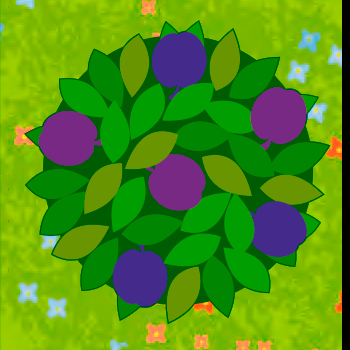
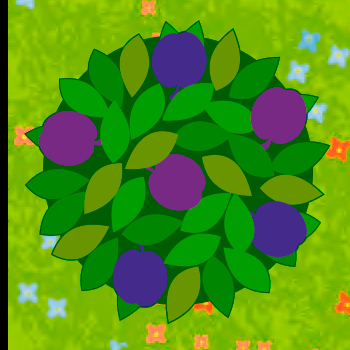
Imagenes con borde funcionales (sin rotar)

Changed region(s): [[0.9714, 0.0, 1.0, 1.0], [0.0, 0.0, 0.0286, 1.0]]

diff --git a/src/build/orchard.js b/src/build/orchard.js
@@ -26,6 +26,7 @@ var __assign = (this && this.__assign) || function () {
 };
 import { jsx as _jsx, jsxs as _jsxs } from "react/jsx-runtime";
 import React from 'react';
+//import { readJsonConfigFile } from 'typescript';
 import './index.css';
 var Rotation;
 (function (Rotation) {
@@ -40,143 +41,187 @@ var Color;
     Color[Color["Purple"] = 2] = "Purple";
     Color[Color["Yellow"] = 3] = "Yellow";
 })(Color || (Color = {}));
-var cards = {
+var allCards = {
     "elements": [
         {
             "id": 1,
             "img": "img/1.png",
-            "pos": null,
+            "pos": [777, 777, 777, 777, 777, 777],
             "rotation": 1,
-            "trees": [2, 1, 1, 2, 3, 3]
+            "trees": [2, 1, 1, 2, 3, 3],
+            "inUse": false
         },
         {
             "id": 2,
             "img": "img/2.png",
-            "pos": null,
+            "pos": [777, 777, 777, 777, 777, 777],
             "rotation": 1,
-            "trees": [1, 2, 1, 2, 3, 3]
+            "trees": [1, 2, 1, 2, 3, 3],
+            "inUse": false
         },
         {
             "id": 3,
             "img": "img/3.png",
-            "pos": null,
+            "pos": [777, 777, 777, 777, 777, 777],
             "rotation": 1,
-            "trees": [2, 1, 3, 3, 1, 2]
+            "trees": [2, 1, 3, 3, 1, 2],
+            "inUse": false
         },
         {
             "id": 4,
             "img": "img/4.png",
-            "pos": null,
+            "pos": [777, 777, 777, 777, 777, 777],
             "rotation": 1,
-            "trees": [1, 2, 3, 3, 1, 2]
+            "trees": [1, 2, 3, 3, 1, 2],
+            "inUse": false
         },
         {
             "id": 5,
             "img": "img/5.png",
-            "pos": null,
+            "pos": [777, 777, 777, 777, 777, 777],
             "rotation": 1,
-            "trees": [1, 3, 2, 2, 3, 1]
+            "trees": [1, 3, 2, 2, 3, 1],
+            "inUse": false
         },
         {
             "id": 6,
             "img": "img/6.png",
-            "pos": null,
+            "pos": [777, 777, 777, 777, 777, 777],
             "rotation": 1,
-            "trees": [3, 1, 2, 2, 3, 1]
+            "trees": [3, 1, 2, 2, 3, 1],
+            "inUse": false
         },
         {
             "id": 7,
             "img": "img/7.png",
-            "pos": null,
+            "pos": [777, 777, 777, 777, 777, 777],
             "rotation": 1,
-            "trees": [3, 1, 3, 2, 1, 2]
+            "trees": [3, 1, 3, 2, 1, 2],
+            "inUse": false
         },
         {
             "id": 8,
             "img": "img/8.png",
-            "pos": null,
+            "pos": [777, 777, 777, 777, 777, 777],
             "rotation": 1,
-            "trees": [3, 1, 2, 3, 1, 2]
+            "trees": [3, 1, 2, 3, 1, 2],
+            "inUse": false
         },
         {
             "id": 9,
             "img": "img/9.png",
-            "pos": null,
+            "pos": [777, 777, 777, 777, 777, 777],
             "rotation": 1,
-            "trees": [2, 3, 2, 1, 3, 1]
+            "trees": [2, 3, 2, 1, 3, 1],
+            "inUse": false
         },
         {
             "id": 10,
             "img": "img/10.png",
-            "pos": null,
+            "pos": [777, 777, 777, 777, 777, 777],
             "rotation": 1,
-            "trees": [2, 3, 1, 2, 3, 1]
+            "trees": [2, 3, 1, 2, 3, 1],
+            "inUse": false
         },
         {
             "id": 11,
             "img": "img/11.png",
-            "pos": null,
+            "pos": [777, 777, 777, 777, 777, 777],
             "rotation": 1,
-            "trees": [2, 2, 1, 3, 3, 1]
+            "trees": [2, 2, 1, 3, 3, 1],
+            "inUse": false
         },
         {
             "id": 12,
             "img": "img/12.png",
-            "pos": null,
+            "pos": [777, 777, 777, 777, 777, 777],
             "rotation": 1,
-            "trees": [2, 2, 1, 3, 1, 3]
+            "trees": [2, 2, 1, 3, 1, 3],
+            "inUse": false
         },
         {
             "id": 13,
             "img": "img/13.png",
-            "pos": null,
+            "pos": [777, 777, 777, 777, 777, 777],
             "rotation": 1,
-            "trees": [1, 2, 1, 3, 2, 3]
+            "trees": [1, 2, 1, 3, 2, 3],
+            "inUse": false
         },
         {
             "id": 14,
             "img": "img/14.png",
-            "pos": null,
+            "pos": [777, 777, 777, 777, 777, 777],
             "rotation": 1,
-            "trees": [1, 2, 3, 1, 2, 3]
+            "trees": [1, 2, 3, 1, 2, 3],
+            "inUse": false
         },
         {
             "id": 15,
             "img": "img/15.png",
-            "pos": null,
+            "pos": [777, 777, 777, 777, 777, 777],
             "rotation": 1,
-            "trees": [3, 2, 1, 1, 2, 3]
+            "trees": [3, 2, 1, 1, 2, 3],
+            "inUse": false
         },
         {
             "id": 16,
             "img": "img/16.png",
-            "pos": null,
+            "pos": [777, 777, 777, 777, 777, 777],
             "rotation": 1,
-            "trees": [2, 3, 1, 1, 2, 3]
+            "trees": [2, 3, 1, 1, 2, 3],
+            "inUse": false
         },
         {
             "id": 17,
             "img": "img/17.png",
-            "pos": null,
+            "pos": [777, 777, 777, 777, 777, 777],
             "rotation": 1,
-            "trees": [1, 1, 3, 2, 2, 3]
+            "trees": [1, 1, 3, 2, 2, 3],
+            "inUse": false
         },
         {
             "id": 18,
             "img": "img/18.png",
-            "pos": null,
+            "pos": [777, 777, 777, 777, 777, 777],
             "rotation": 1,
-            "trees": [1, 1, 3, 2, 3, 2]
+            "trees": [1, 1, 3, 2, 3, 2],
+            "inUse": false
         }
     ]
 };
+var lista = [1, 2, 3, 4, 5, 6, 7, 8, 9, 10, 11, 12, 13, 14, 15, 16, 17, 18];
+lista = lista.sort(function () { return Math.random() - 0.5; });
+var miarray = lista.slice(0, 9);
+var arrayrandon = new Array;
+var cards = allCards.elements.filter(function (z) { return miarray.includes(z.id); });
 var Square = /** @class */ (function (_super) {
     __extends(Square, _super);
     function Square() {
-        return _super !== null && _super.apply(this, arguments) || this;
+        var _this = _super !== null && _super.apply(this, arguments) || this;
+        _this.imag = "";
+        return _this;
     }
     Square.prototype.render = function () {
-        return (_jsx("button", { className: "square" }));
+        var _this = this;
+        cards.filter(function (x) { return x.pos.includes(_this.props.id); }).forEach(function (x) { return _this.props.cardsPos.push(x.pos.indexOf(_this.props.id)); });
+        cards.filter(function (x) { return x.pos.includes(_this.props.id); }).forEach(function (x) { return _this.props.cardsColor.push(x.trees[x.pos.indexOf(_this.props.id)]); });
+        if (this.props.cardsColor.includes(1)) {
+            this.imag = "https://i.imgur.com/mAt0iKU.png";
+        }
+        else {
+            if (this.props.cardsColor.includes(2)) {
+                this.imag = "https://i.imgur.com/XRzjdo1.png";
+            }
+            else {
+                if (this.props.cardsColor.includes(3)) {
+                    this.imag = "https://i.imgur.com/DG3Gczr.png";
+                }
+                else {
+                    this.imag = "https://th.bing.com/th/id/R.ff76d7863a19d037b34a03c4449178dd?rik=%2b8NPZfWI%2b5nSvw&riu=http%3a%2f%2fwww.imagemagick.org%2fUsage%2fcanvas%2ftrans_fx.png&ehk=IpCH9l8aG%2fvQURdHBHC68epCBqosqIVPywATeVcMTdE%3d&risl=&pid=ImgRaw&r=0";
+                }
+            }
+        }
+        return (_jsx("button", __assign({ className: "square" }, { children: _jsx("img", { src: this.imag, height: "67", width: "67", alt: '' }) })));
     };
     return Square;
 }(React.Component));
@@ -186,22 +231,36 @@ var Board = /** @class */ (function (_super) {
         return _super !== null && _super.apply(this, arguments) || this;
     }
     Board.prototype.renderSquare = function (i) {
-        return _jsx(Square, {});
+        return _jsx(Square, { id: i, cards: cards, cardsColor: new Array, cardsPos: new Array });
     };
     Board.prototype.render = function () {
         var status = 'Next player: X';
-        return (_jsxs("div", { children: [_jsx("div", { className: "status" }), _jsxs("div", __assign({ className: "board-row" }, { children: [this.renderSquare(0), this.renderSquare(1), this.renderSquare(2), this.renderSquare(3), this.renderSquare(4), this.renderSquare(5)] })), _jsxs("div", __assign({ className: "board-row" }, { children: [this.renderSquare(6), this.renderSquare(7), this.renderSquare(8), this.renderSquare(9), this.renderSquare(10), this.renderSquare(11)] })), _jsxs("div", __assign({ className: "board-row" }, { children: [this.renderSquare(12), this.renderSquare(13), this.renderSquare(14), this.renderSquare(15), this.renderSquare(16), this.renderSquare(17)] })), _jsxs("div", __assign({ className: "board-row" }, { children: [this.renderSquare(18), this.renderSquare(19), this.renderSquare(20), this.renderSquare(21), this.renderSquare(22), this.renderSquare(23)] })), _jsxs("div", __assign({ className: "board-row" }, { children: [this.renderSquare(24), this.renderSquare(25), this.renderSquare(26), this.renderSquare(27), this.renderSquare(28), this.renderSquare(29)] })), _jsxs("div", __assign({ className: "board-row" }, { children: [this.renderSquare(30), this.renderSquare(31), this.renderSquare(32), this.renderSquare(33), this.renderSquare(34), this.renderSquare(35)] }))] }));
+        return (_jsxs("div", { children: [_jsx("div", { className: "status" }), _jsxs("div", __assign({ className: "board-row" }, { children: [this.renderSquare(0), this.renderSquare(1), this.renderSquare(2), this.renderSquare(3), this.renderSquare(4), this.renderSquare(5), this.renderSquare(6), this.renderSquare(7), this.renderSquare(8), this.renderSquare(9), this.renderSquare(10), this.renderSquare(11)] })), _jsxs("div", __assign({ className: "board-row" }, { children: [this.renderSquare(12), this.renderSquare(13), this.renderSquare(14), this.renderSquare(15), this.renderSquare(16), this.renderSquare(17), this.renderSquare(18), this.renderSquare(19), this.renderSquare(20), this.renderSquare(21), this.renderSquare(22), this.renderSquare(23)] })), _jsxs("div", __assign({ className: "board-row" }, { children: [this.renderSquare(24), this.renderSquare(25), this.renderSquare(26), this.renderSquare(27), this.renderSquare(28), this.renderSquare(29), this.renderSquare(30), this.renderSquare(31), this.renderSquare(32), this.renderSquare(33), this.renderSquare(34), this.renderSquare(35)] })), _jsxs("div", __assign({ className: "board-row" }, { children: [this.renderSquare(36), this.renderSquare(37), this.renderSquare(38), this.renderSquare(39), this.renderSquare(40), this.renderSquare(41), this.renderSquare(42), this.renderSquare(43), this.renderSquare(44), this.renderSquare(45), this.renderSquare(46), this.renderSquare(47)] })), _jsxs("div", __assign({ className: "board-row" }, { children: [this.renderSquare(48), this.renderSquare(49), this.renderSquare(50), this.renderSquare(51), this.renderSquare(52), this.renderSquare(53), this.renderSquare(54), this.renderSquare(55), this.renderSquare(56), this.renderSquare(57), this.renderSquare(58), this.renderSquare(59)] })), _jsxs("div", __assign({ className: "board-row" }, { children: [this.renderSquare(60), this.renderSquare(61), this.renderSquare(62), this.renderSquare(63), this.renderSquare(64), this.renderSquare(65), this.renderSquare(66), this.renderSquare(67), this.renderSquare(68), this.renderSquare(69), this.renderSquare(70), this.renderSquare(71)] })), _jsxs("div", __assign({ className: "board-row" }, { children: [this.renderSquare(72), this.renderSquare(73), this.renderSquare(74), this.renderSquare(75), this.renderSquare(76), this.renderSquare(77), this.renderSquare(78), this.renderSquare(79), this.renderSquare(80), this.renderSquare(81), this.renderSquare(82), this.renderSquare(83)] })), _jsxs("div", __assign({ className: "board-row" }, { children: [this.renderSquare(84), this.renderSquare(85), this.renderSquare(86), this.renderSquare(87), this.renderSquare(88), this.renderSquare(89), this.renderSquare(90), this.renderSquare(91), this.renderSquare(92), this.renderSquare(93), this.renderSquare(94), this.renderSquare(95)] })), _jsxs("div", __assign({ className: "board-row" }, { children: [this.renderSquare(96), this.renderSquare(97), this.renderSquare(98), this.renderSquare(99), this.renderSquare(100), this.renderSquare(101), this.renderSquare(102), this.renderSquare(103), this.renderSquare(104), this.renderSquare(105), this.renderSquare(106), this.renderSquare(107)] })), _jsxs("div", __assign({ className: "board-row" }, { children: [this.renderSquare(108), this.renderSquare(109), this.renderSquare(110), this.renderSquare(111), this.renderSquare(112), this.renderSquare(113), this.renderSquare(114), this.renderSquare(115), this.renderSquare(116), this.renderSquare(117), this.renderSquare(118), this.renderSquare(119)] })), _jsxs("div", __assign({ className: "board-row" }, { children: [this.renderSquare(120), this.renderSquare(121), this.renderSquare(122), this.renderSquare(123), this.renderSquare(124), this.renderSquare(125), this.renderSquare(126), this.renderSquare(127), this.renderSquare(128), this.renderSquare(129), this.renderSquare(130), this.renderSquare(131)] })), _jsxs("div", __assign({ className: "board-row" }, { children: [this.renderSquare(132), this.renderSquare(133), this.renderSquare(134), this.renderSquare(135), this.renderSquare(136), this.renderSquare(137), this.renderSquare(138), this.renderSquare(139), this.renderSquare(140), this.renderSquare(141), this.renderSquare(142), this.renderSquare(143)] })), _jsxs("div", __assign({ className: "board-row" }, { children: [this.renderSquare(144), this.renderSquare(145), this.renderSquare(146), this.renderSquare(147), this.renderSquare(148), this.renderSquare(149), this.renderSquare(150), this.renderSquare(151), this.renderSquare(152), this.renderSquare(153), this.renderSquare(154), this.renderSquare(155)] }))] }));
     };
     return Board;
 }(React.Component));
+function changePosition(newIndex) {
+    var beingUsed = cards.filter(function (card) {
+        return card.inUse === true;
+    });
+    if (beingUsed.length != 0) {
+        var oldIndex = cards.indexOf(beingUsed[0]);
+        cards[oldIndex].pos = [777, 777, 777, 777, 777, 777];
+        cards[oldIndex].inUse = false;
+    }
+    cards[newIndex].pos = [65, 66, 77, 78, 89, 90];
+    cards[newIndex].inUse = true;
+    return cards;
+}
 var Game = /** @class */ (function (_super) {
     __extends(Game, _super);
     function Game() {
         return _super !== null && _super.apply(this, arguments) || this;
     }
     Game.prototype.render = function () {
-        return (_jsxs("div", __assign({ className: "game" }, { children: [_jsx("p", __assign({ id: 'title' }, { children: "ORCHARD" })), _jsx("div", __assign({ className: "game-board" }, { children: _jsx(Board, {}) })), _jsx("div", { className: "game-info" }), _jsx("div", __assign({ className: 'cards' }, { children: _jsx("ul", __assign({ id: 'lista1' }, { children: cards.elements.map(function (z) {
-                            return (_jsx("img", { src: z.img, alt: "Site Logo", width: 140 }));
+        var _this = this;
+        return (_jsxs("div", __assign({ className: "game" }, { children: [_jsx("p", __assign({ id: 'title' }, { children: "ORCHARD" })), _jsx("div", __assign({ className: "game-board" }, { children: _jsx(Board, { cards: cards }) })), _jsx("div", { className: "game-info" }), _jsx("div", __assign({ className: 'cards' }, { children: _jsx("ul", __assign({ id: 'lista1' }, { children: cards.filter(function (z) { return z.inUse == false; }).map(function (z) {
+                            return (_jsx("div", { children: _jsx("img", { src: z.img, alt: "Site Logo", width: 140, onClick: function () { return _this.setState(changePosition(cards.indexOf(z))); } }) }));
                         }) })) }))] })));
     };
     return Game;

diff --git a/src/orchard.tsx b/src/orchard.tsx
@@ -175,32 +175,7 @@ const allCards={
   }
   ]
 }
-var lista = [1,2,3,4,5,6,7,8,9,10,11,12,13,14,15,16,17,18];
-lista = lista.sort(function() {return Math.random() - 0.5});
 
-let miarray = lista.slice(0,9);
-let arrayrandon = new Array;
-var cards=allCards.elements.filter(z=>miarray.includes(z.id));
-
-class Square extends React.Component<{id:number, cards:any,cardsColor: number[],cardsPos: number[] }, { }> {
-   imag: string = "";
-    render() {
-      cards.filter(x=>x.pos.includes(this.props.id)).forEach(x=>this.props.cardsPos.push(x.pos.indexOf(this.props.id)));
-      cards.filter(x=>x.pos.includes(this.props.id)).forEach(x=>this.props.cardsColor.push(x.trees[x.pos.indexOf(this.props.id)]));
-
-      if(this.props.cardsColor.includes(1)){this.imag="img/Color 01 - Red.png"}else{
-      if(this.props.cardsColor.includes(2)){this.imag="img/Color 02 - Purple.png"}else{
-      if(this.props.cardsColor.includes(3)){this.imag="img/Color 03 - Yellow.png"}else{
-       this.imag="img/blank.ico"
-      }
-    }}
-      return (
-        <button className="square">
-           {<img src={this.imag} height ="67" width="67" alt=''/>}
-        </button>
-      );
-    }
-  }
 
 class Board extends React.Component<{cards:any }, { }> {
   renderSquare(i:number) {
@@ -399,6 +374,37 @@ class Board extends React.Component<{cards:any }, { }> {
       );
     }
   }
+
+
+
+var lista = [1,2,3,4,5,6,7,8,9,10,11,12,13,14,15,16,17,18];
+lista = lista.sort(function() {return Math.random() - 0.5});
+
+let miarray = lista.slice(0,9);
+let arrayrandon = new Array;
+var cards=allCards.elements.filter(z=>miarray.includes(z.id));
+
+class Square extends React.Component<{id:number, cards:any,cardsColor: number[],cardsPos: number[] }, { }> {
+   imag: string = "";
+    render() {
+      this.props.cardsPos.length=0;
+      cards.filter(x=>x.pos.includes(this.props.id)).forEach(x=>this.props.cardsPos.push(x.pos.indexOf(this.props.id)));
+      cards.filter(x=>x.pos.includes(this.props.id)).forEach(x=>this.props.cardsColor.push(x.trees[x.pos.indexOf(this.props.id)]));
+
+      if(this.props.cardsColor.includes(1)){this.imag="img/1."+this.props.cardsPos[0]+".png"}else{
+      if(this.props.cardsColor.includes(2)){this.imag="img/2."+this.props.cardsPos[0]+".png"}else{
+      if(this.props.cardsColor.includes(3)){this.imag="img/3."+this.props.cardsPos[0]+".png"}else{
+       this.imag="img/blank.ico"
+      }
+    }}
+      return (
+        <button className="square">
+           {<img src={this.imag} height ="66" width="66" alt=''/>}
+        </button>
+      );
+    }
+  }
+
 
   function changePosition(newIndex: number) {
     const beingUsed = cards.filter((card) => {

diff --git a/src/index.css b/src/index.css
@@ -20,7 +20,7 @@ body {
   
   .square {
     background: rgba(143, 206, 60, 0.678);
-    border: 1px solid rgb(85, 155, 6);
+    border: 0.5px solid rgb(85, 155, 6);
     float: left;
     font-size: 24px;
     font-weight: bold;
